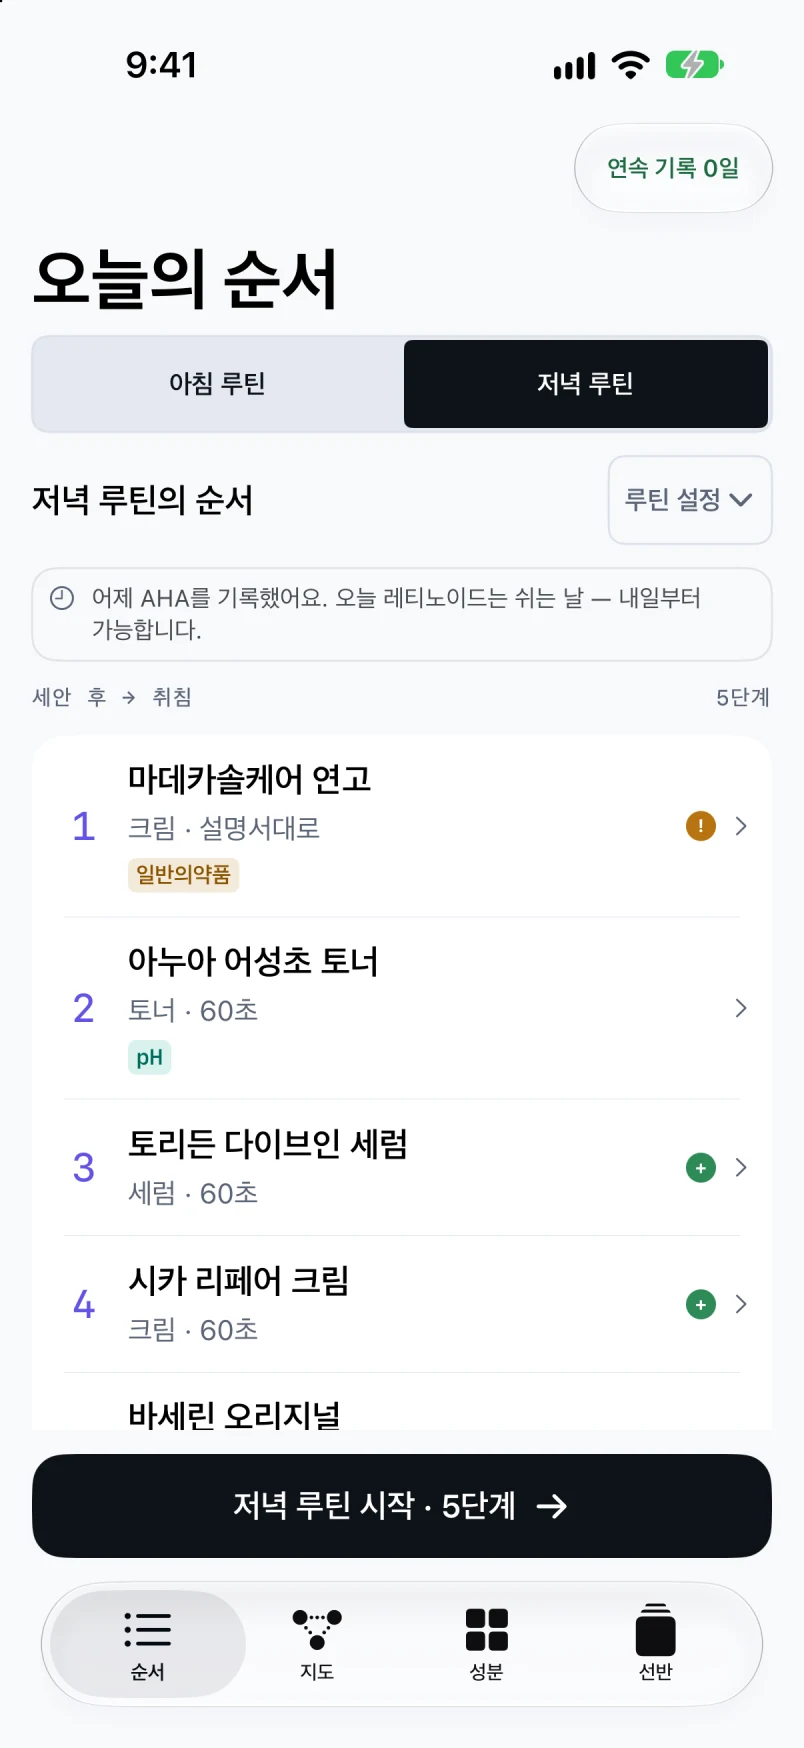
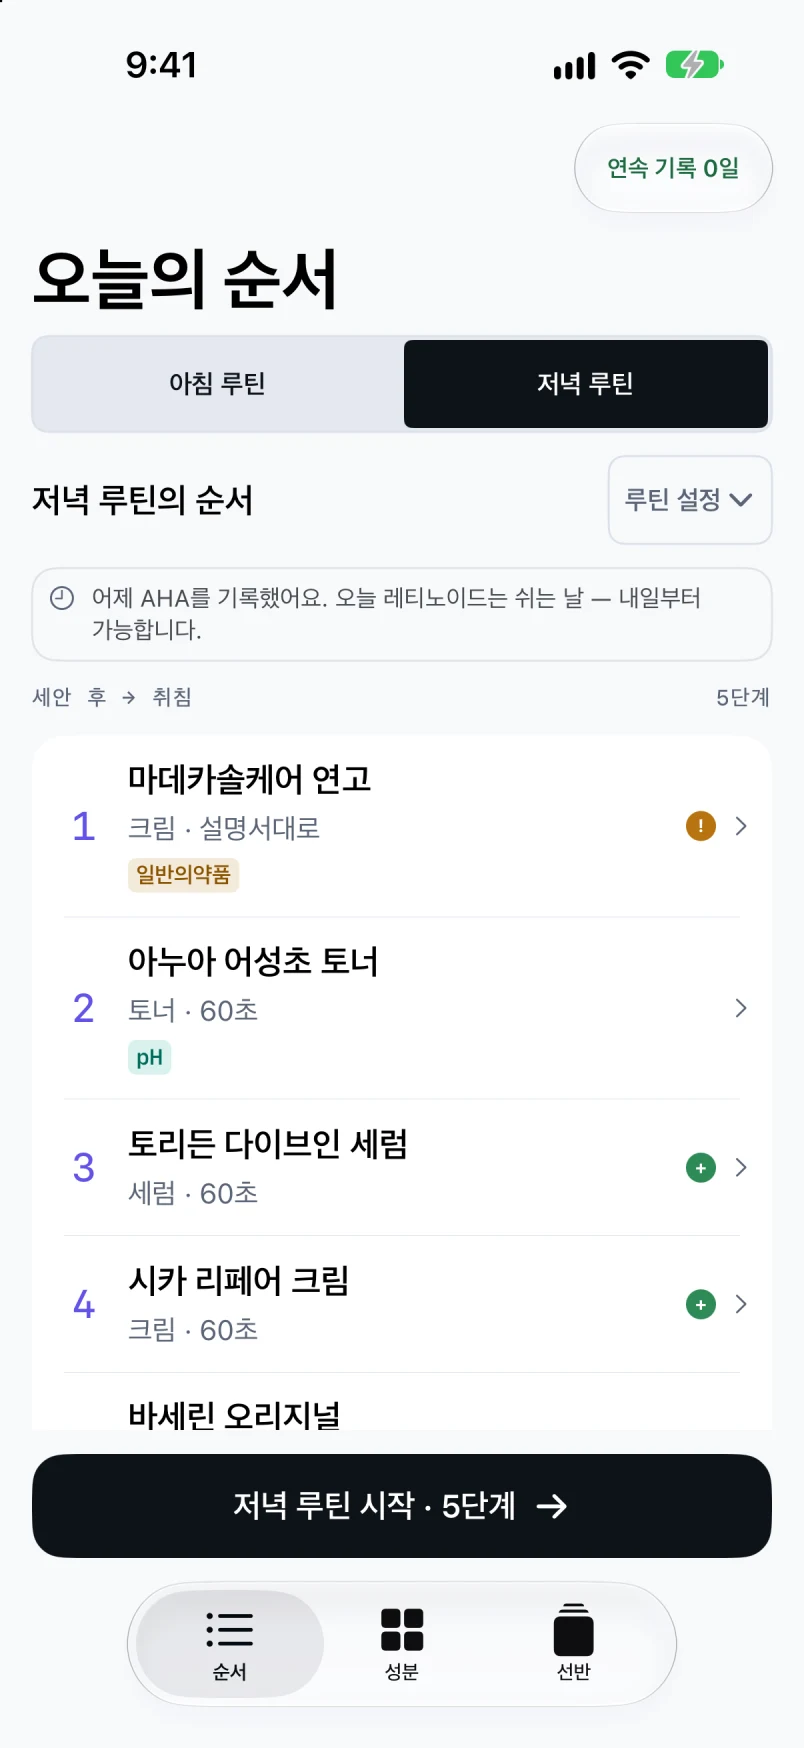
성분 관계 그래프 소개를 종료하고 현재 앱 화면을 반영합니다 (#3)

diff --git a/_layouts/landing.html b/_layouts/landing.html
@@ -16,7 +16,7 @@
   <a class="skip-link" href="#main">본문으로 건너뛰기</a>
   <header class="site-header">
     <a class="brand" href="{{ '/' | relative_url }}" aria-label="바름 홈"><img src="{{ '/assets/images/app-icon.webp' | relative_url }}" width="34" height="34" alt=""><span>바름</span></a>
-    <nav aria-label="주요 기능"><a href="#routine">순서</a><a href="#relations">성분 시각화</a><a href="#everywhere">어디서나</a></nav>
+    <nav aria-label="주요 기능"><a href="#routine">순서</a><a href="#ingredients">성분 시각화</a><a href="#everywhere">어디서나</a></nav>
     {% if site.app_store_url and site.app_store_url != '' %}<a class="header-link" href="{{ site.app_store_url | escape }}">다운로드 <span aria-hidden="true">↗</span></a>{% else %}<span class="header-status">iOS · watchOS</span>{% endif %}
   </header>
   <main id="main">
@@ -24,15 +24,15 @@
       <div class="hero-copy">
         <p class="eyebrow">매일 바르는 일에, 바름.</p>
         <h1 id="hero-title">가진 화장품,<br>바르는 <span>순서부터.</span></h1>
-        <p class="hero-description">순서부터 성분의 관계와 이동까지.<br>iPhone과 Apple Watch로 이어가는 나의 루틴.</p>
+        <p class="hero-description">순서부터 내 선반의 성분 구성까지.<br>iPhone과 Apple Watch로 이어가는 나의 루틴.</p>
         <div class="hero-actions">
           {% if site.app_store_url and site.app_store_url != '' %}<a class="button primary" href="{{ site.app_store_url | escape }}">App Store에서 다운로드 <span aria-hidden="true">↗</span></a>{% else %}<span class="launch-status">App Store 출시 예정</span>{% endif %}
           <a class="text-link" href="#routine">바름 알아보기 <span aria-hidden="true">↗</span></a>
         </div>
       </div>
-      <div class="hero-stage" role="group" aria-label="바름의 오늘 순서, 성분 관계 그래프와 Apple Watch 앱">
+      <div class="hero-stage" role="group" aria-label="바름의 오늘 순서, 내 선반과 Apple Watch 앱">
         <div class="orbit orbit-one" aria-hidden="true"></div><div class="orbit orbit-two" aria-hidden="true"></div>
-        <figure class="phone hero-phone-back"><img src="{{ '/assets/images/graph.webp' | relative_url }}" width="804" height="1748" alt="성분의 관계와 연구 참고 연결을 보여주는 그래프" decoding="async"></figure>
+        <figure class="phone hero-phone-back"><img src="{{ '/assets/images/shelf.webp' | relative_url }}" width="804" height="1748" alt="가진 화장품을 모아둔 바름의 내 선반" decoding="async"></figure>
         <figure class="phone hero-phone-front"><img src="{{ '/assets/images/order.webp' | relative_url }}" width="804" height="1748" alt="오늘의 저녁 루틴과 바르는 순서를 보여주는 바름 앱" fetchpriority="high"></figure>
         <figure class="hero-watch watch-device"><img src="{{ '/assets/images/watch-home.webp' | relative_url }}" width="324" height="394" alt="Apple Watch 바름 앱에서 오늘의 루틴을 확인하는 화면" decoding="async"></figure>
       </div>
@@ -42,7 +42,6 @@
       <p>화장대 앞의 작은 고민이<br><span>나를 돌보는 시간으로.</span></p>
       <nav class="feature-directory" aria-label="바름의 기능 전체 보기">
         <a href="#routine">바르는 순서 <span aria-hidden="true">↗</span></a>
-        <a href="#relations">성분 관계 그래프 <span aria-hidden="true">↗</span></a>
         <a href="#ingredients">성분 구성 트리맵 <span aria-hidden="true">↗</span></a>
         <a href="#absorption">성분 이동 모식도 <span aria-hidden="true">↗</span></a>
         <a href="#widgets">홈·잠금 화면 위젯 <span aria-hidden="true">↗</span></a>
@@ -63,26 +62,12 @@
       <div class="routine-notes"><p><strong>한곳에 모은 내 선반</strong>사용 중인 제품을 담고 살펴보세요.</p><p><strong>아침과 저녁의 루틴</strong>시간대에 맞춰 오늘의 순서를 확인하세요.</p><p><strong>순서와 함께 보는 안내</strong>대기시간과 함께 사용할 때의 주의사항도 확인하세요.</p></div>
     </section>
 
-    <section class="graph-section" id="relations" aria-labelledby="graph-title">
-      <div class="wrap graph-layout">
-        <div class="graph-copy reveal"><p class="section-label">성분 관계 그래프</p><h2 id="graph-title">성분을 잇고,<br><span>이유를 읽어요.</span></h2><p>길게 나열된 성분표에서 한 걸음 더.<br>성분 하나를 선택해 연결된 관계와<br>그 설명의 근거를 살펴보세요.</p>
-          <div class="graph-controls" role="group" aria-label="성분 그래프 화면 예시 선택"><button type="button" data-graph="overview" aria-pressed="true" aria-controls="graph-image">전체 관계</button><button type="button" data-graph="selected" aria-pressed="false" aria-controls="graph-image">성분 선택</button></div>
-          <p class="graph-description" id="graph-description" aria-live="polite">성분 사이의 관계와 연구 참고 연결을 한눈에 살펴봐요.</p>
-          <p class="graph-note">연구에 함께 등장했다는 사실이 효과나 안전성을 보장하지는 않아요. 앱에서 관계 설명과 출처를 함께 확인하세요.</p>
-        </div>
-        <div class="graph-stage reveal">
-          <div class="graph-rings" aria-hidden="true"><i></i><i></i><i></i></div>
-          <figure class="graph-phone phone"><img id="graph-image" src="{{ '/assets/images/graph.webp' | relative_url }}" data-overview="{{ '/assets/images/graph.webp' | relative_url }}" data-selected="{{ '/assets/images/graph-selected.webp' | relative_url }}" width="804" height="1748" alt="성분 관계와 연구 참고 연결을 함께 표시하는 그래프 예시" loading="lazy" decoding="async"></figure>
-        </div>
-      </div>
-    </section>
-
     <section class="ingredients-section wrap section-space" id="ingredients" aria-labelledby="ingredients-title">
       <div class="ingredients-copy reveal">
         <p class="section-label">성분 구성 트리맵</p>
         <h2 id="ingredients-title">내 선반을,<br>성분으로 펼쳐보면.</h2>
         <p class="section-description">여러 제품에 나뉘어 있던 성분을 한곳에.<br>공식 용도와 검증된 효능, 두 가지 기준으로<br>내 선반의 성분 구성을 살펴보세요.</p>
-        <dl class="feature-explanations"><div><dt>공식 용도</dt><dd>공식 자료에 기록된 성분의 용도별로 확인해요.</dd></div><div><dt>검증된 효능</dt><dd>근거가 연결된 성분을 효능별로 살펴봐요.</dd></div><div><dt>구성에서 상세까지</dt><dd>영역을 선택하면 해당 성분 목록과 상세로 이어져요.</dd></div></dl>
+        <dl class="feature-explanations"><div><dt>공식 용도</dt><dd>공식 자료에 기록된 성분의 용도별로 확인해요.</dd></div><div><dt>검증된 효능</dt><dd>근거가 연결된 성분을 효능별로 살펴봐요.</dd></div><div><dt>구성에서 상세까지</dt><dd>영역을 선택하면 성분 목록과 상세로 이어져요. 성분의 설명과 관련 연구 근거도 함께 확인하세요.</dd></div></dl>
         <p class="visual-note">트리맵의 넓이는 분류별 고유 성분 수입니다. 함량이나 효과의 강도를 뜻하지 않습니다.</p>
       </div>
       <div class="ingredients-stage reveal"><figure class="ingredients-screen"><img src="{{ '/assets/images/treemap.webp' | relative_url }}" width="804" height="1748" alt="검증된 효능별 성분 수를 영역 크기로 보여주는 실제 앱 트리맵 데모 화면" loading="lazy" decoding="async"></figure></div>

diff --git a/assets/css/landing.css b/assets/css/landing.css
@@ -430,121 +430,6 @@ h2 {
   font-weight: 650;
   margin-bottom: 9px;
 }
-.graph-section {
-  background: #111b1e;
-  color: #f5f8f7;
-  overflow: hidden;
-}
-.graph-layout {
-  display: grid;
-  grid-template-columns: 1fr 1fr;
-  gap: 60px;
-  align-items: center;
-  min-height: 830px;
-}
-.graph-copy {
-  padding: 70px 0;
-  position: relative;
-  z-index: 1;
-}
-.graph-copy .section-label {
-  color: #a8c8b8;
-}
-.graph-copy h2 {
-  font-size: clamp(40px, 4.4vw, 62px);
-}
-.graph-copy h2 span {
-  color: #b1d5c2;
-}
-.graph-copy > p:not(.section-label) {
-  font-size: 17px;
-  line-height: 1.9;
-  color: #c0cdca;
-  margin-top: 26px;
-}
-.graph-controls {
-  display: flex;
-  gap: 8px;
-  margin-top: 34px;
-}
-.graph-controls button {
-  padding: 12px 20px;
-  min-height: 46px;
-  color: #e3ece7;
-  background: transparent;
-  border: 1px solid #566863;
-  border-radius: 30px;
-  font-size: 13px;
-}
-.graph-controls button[aria-pressed="true"] {
-  background: #cbe7d8;
-  border-color: #cbe7d8;
-  color: #16241e;
-  font-weight: 650;
-}
-.graph-controls button:hover {
-  border-color: #d9eade;
-}
-.graph-copy p.graph-description {
-  font-size: 13px;
-  max-width: 320px;
-  min-height: 50px;
-  margin-top: 18px;
-}
-.graph-copy p.graph-note {
-  font-size: 12px;
-  line-height: 1.75;
-  color: #a5b5b1;
-  border-top: 1px solid #3b4d47;
-  padding-top: 20px;
-  margin-top: 30px;
-  max-width: 355px;
-}
-.graph-stage {
-  position: relative;
-  min-height: 780px;
-  perspective: 1800px;
-  display: flex;
-  align-items: center;
-  justify-content: center;
-}
-.graph-phone {
-  width: 300px;
-  position: relative;
-  transform: rotate(6deg) rotateY(-12deg);
-  border-color: #2e3e38;
-  box-shadow:
-    0 0 0 1px #6a7c75,
-    8px 10px 0 -4px #596961,
-    0 30px 100px -25px #000;
-  transition: transform 0.7s var(--ease);
-}
-.graph-phone:hover {
-  transform: rotate(0) rotateY(0);
-}
-.graph-rings {
-  position: absolute;
-  inset: 0;
-  pointer-events: none;
-}
-.graph-rings i {
-  border: 1px solid #7c9a8829;
-  border-radius: 50%;
-  position: absolute;
-  left: 50%;
-  top: 50%;
-  width: 450px;
-  height: 450px;
-  transform: translate(-50%, -50%);
-}
-.graph-rings i:nth-child(2) {
-  width: 650px;
-  height: 650px;
-}
-.graph-rings i:nth-child(3) {
-  width: 850px;
-  height: 850px;
-}
 .centered {
   text-align: center;
 }
@@ -770,12 +655,6 @@ h2 {
     opacity 0.85s var(--ease),
     transform 1s var(--ease);
 }
-.graph-controls {
-  display: none;
-}
-.graph-ready .graph-controls {
-  display: flex;
-}
 @keyframes phone-front {
   from {
     opacity: 0;
@@ -876,16 +755,6 @@ h2 {
   .shelf-frame,
   .routine-frame {
     width: 240px;
-  }
-  .graph-layout {
-    gap: 25px;
-    min-height: 790px;
-  }
-  .graph-phone {
-    width: 278px;
-  }
-  .graph-stage {
-    min-height: 720px;
   }
   .widget-small,
   .widget-medium {
@@ -1081,62 +950,6 @@ h2 {
     font-size: 16px;
     margin-bottom: 5px;
   }
-  .graph-layout {
-    display: flex;
-    flex-direction: column;
-    gap: 0;
-    min-height: 0;
-  }
-  .graph-copy {
-    width: 100%;
-    padding: 70px 0 10px;
-  }
-  .graph-copy h2 {
-    font-size: 42px;
-  }
-  .graph-copy > p:not(.section-label) {
-    font-size: 15px;
-    margin-top: 22px;
-  }
-  .graph-copy p.graph-description {
-    font-size: 13px;
-    min-height: 0;
-    max-width: none;
-  }
-  .graph-copy p.graph-note {
-    font-size: 11px;
-    max-width: none;
-    margin-top: 22px;
-    padding-top: 18px;
-  }
-  .graph-controls {
-    margin-top: 25px;
-  }
-  .graph-controls button {
-    font-size: 12px;
-    padding: 11px 18px;
-  }
-  .graph-stage {
-    width: 100%;
-    min-height: 650px;
-  }
-  .graph-phone {
-    width: 263px;
-    border-radius: 34px;
-    border-width: 5px;
-  }
-  .graph-rings i {
-    width: 380px;
-    height: 380px;
-  }
-  .graph-rings i:nth-child(2) {
-    width: 510px;
-    height: 510px;
-  }
-  .graph-rings i:nth-child(3) {
-    width: 640px;
-    height: 640px;
-  }
   .widget-section .section-heading {
     text-align: left;
   }
@@ -1281,9 +1094,6 @@ h2 {
   .widget-stage-word {
     font-size: 68px;
   }
-  .graph-copy h2 {
-    font-size: 38px;
-  }
   .site-header nav {
     gap: 16px;
   }
@@ -1307,9 +1117,6 @@ h2 {
   }
   .widget-stage:hover .widget-medium {
     transform: rotate(7deg) rotateY(-5deg);
-  }
-  .graph-phone:hover {
-    transform: rotate(6deg) rotateY(-12deg);
   }
 }
 

diff --git a/assets/js/landing.js b/assets/js/landing.js
@@ -34,37 +34,4 @@
   document.addEventListener("focusin", (event) =>
     event.target.closest(".reveal")?.classList.remove("pending"),
   );
-  const image = document.getElementById("graph-image");
-  const description = document.getElementById("graph-description");
-  const controls = Array.from(document.querySelectorAll("[data-graph]"));
-  if (!image || !description || !controls.length) return;
-  document.documentElement.classList.add("graph-ready");
-  let revision = 0;
-  controls.forEach((button) => {
-    button.addEventListener("click", async () => {
-      const current = ++revision;
-      const selected = button.dataset.graph === "selected";
-      const source = selected ? image.dataset.selected : image.dataset.overview;
-      const preload = new Image();
-      preload.src = source;
-      try {
-        await preload.decode();
-        if (current !== revision) return;
-        image.src = source;
-        image.alt = selected
-          ? "나이아신아마이드를 선택해 연결된 관계를 강조한 앱 그래프 예시"
-          : "성분 관계와 연구 참고 연결을 함께 표시하는 그래프 예시";
-        controls.forEach((control) =>
-          control.setAttribute("aria-pressed", String(control === button)),
-        );
-        description.textContent = selected
-          ? "성분을 선택하면 연결된 관계에 집중해서 살펴볼 수 있어요."
-          : "성분 사이의 관계와 연구 참고 연결을 한눈에 살펴봐요.";
-      } catch {
-        if (current === revision)
-          description.textContent =
-            "화면 예시를 불러오지 못했어요. 다시 선택해 주세요.";
-      }
-    });
-  });
 })();

diff --git a/docs/landing-assets.md b/docs/landing-assets.md
@@ -1,7 +1,7 @@
 # 앱 소개 화면 자료
 
 - 캡처일: 2026-09-28.
-- `order.webp`, `graph.webp`, `graph-selected.webp`, `history.webp`, `shelf.webp`: 설치된 Bareum Debug 앱을 별도 iPhone 18 Pro / iOS 27 시뮬레이터에서 실행해 캡처. 각각 `--design-preview=tabs`, `references`, `references-filtered`, `history`, `shelf`를 사용했다. 데모 데이터이며 운영 사용자 자료가 아니다. WebP 변환 외에 앱 내용은 수정하지 않았다.
+- `order.webp`, `history.webp`, `shelf.webp`: 설치된 Bareum Debug 앱을 별도 `Bareum Website Capture` iPhone 18 Pro / iOS 27 시뮬레이터에서 실행해 캡처. 각각 `--design-preview=tabs`, `history`, `shelf`를 사용했다. 데모 데이터이며 운영 사용자 자료가 아니다. 804×1748 크기 축소와 WebP 변환 외에 앱 내용은 수정하지 않았다.
 - `widget-medium.webp`, `widget-small.webp`: 앱 저장소 `docs/design/screens.html`의 Pen 내보내기에서 `JEWV9`, `swepB` 요소를 브라우저로 캡처했다. 원본 문서는 변경하지 않았다. 실제 위젯 캡처가 아니라 디자인 예시임을 페이지에 명시했다.
 - 위젯 기능 설명 대조: `BareumWidget/NextStepWidget.swift`, `NextStepHomeViews.swift`, `StreakWidget.swift`. 루틴을 앱에서 준비한 뒤 사용하며, 크기와 상태에 따라 표시·조작이 다르다.
 - `app-icon.webp`: 앱의 `Assets.xcassets/AppIcon.appiconset/AppIcon.png` 축소본.
@@ -12,8 +12,12 @@
 
 ## 확장 기능 화면
 
[2 lines of base64/hex data omitted]
 - `absorption.webp`: 별도 iPhone 시뮬레이터의 `--design-preview=depth` 화면. 분자량·용해도 기반 모식도이며 실제 흡수량 측정이 아니다.
 - `watch-home.webp`, `watch-routine.webp`: 별도 Apple Watch SE 3 40mm 시뮬레이터에서 설치된 Watch 앱을 `--watch-preview`, `--watch-preview --watch-preview-routine`으로 실행한 데모 화면.
 - `island-compact.webp`, `island-expanded.webp`, `live-activity.webp`: 앱 저장소 `docs/design/screens.html`의 다이나믹 아일랜드·잠금 화면 실시간 현황 디자인 내보내기를 캡처. 실제 시스템 실행 캡처가 아니며 사이트에도 디자인 예시라고 명시했다.
 - 기능 설명 대조: `ShelfIngredientsView.swift`, `AbsorptionView.swift`, `BareumWidget/RoutineLiveActivity.swift`, `BareumWatch/WatchViews.swift`, `WatchAppModel.swift`. Watch에서는 iPhone의 계정·오늘의 순서 준비가 필요하며, 다이나믹 아일랜드는 지원 기기에서 사용한다.
+
+## 독립 관계 그래프 종료 반영
+
+독립 관계 그래프 소개와 `graph.webp`, `graph-selected.webp` 자료는 제거했다. 첫 화면의 보조 iPhone은 내 선반을 표시한다. 현재 앱의 순서·성분·선반 3개 탭과 일치하도록 순서·트리맵 화면을 갱신했다. 선반·기록·이동 모식도도 같은 Debug 빌드로 다시 캡처했다. 공유 이미지 `social.png`는 새 화면 자료가 적용된 웹 첫 화면 캡처다. 관련 연구·근거는 성분 상세 맥락에서 설명한다.

diff --git a/docs/releases/2026-09-28-ingredient-navigation-refresh.md b/docs/releases/2026-09-28-ingredient-navigation-refresh.md
@@ -1,0 +1,22 @@
+# 성분 탐색 변경에 맞춘 소개 사이트 갱신 — 2026-09-28
+
+독립 성분 관계 그래프 종료에 맞춰 소개 홈의 그래프 섹션·기능 링크·전환 버튼·전용 스타일과 두 그래프 이미지를 제거했다. 첫 화면은 오늘의 순서·내 선반·Apple Watch를 보여준다. 성분 트리맵·피부층 모식도와 위젯·실시간 현황·Watch·기록 소개는 유지하며, 성분 상세의 관련 연구 근거 확인을 설명한다.
+
+순서·선반·기록·이동 모식도는 현재 Debug 앱으로 다시 캡처했다. 트리맵은 최종 iOS UI 검증 첨부 자료를 사용하며 순서·성분·선반 3개 탭을 확인했다. 공유 이미지는 갱신한 웹 첫 화면의 1200×630 캡처다. 출처는 [화면 자료](../landing-assets.md)에 기록했다.
+
+## 로컬 검증
+
+- Jekyll 빌드, Wrangler dry-run, JavaScript 구문 검사, `git diff --check` 통과.
+- 실제 브라우저 360·390·768·1440px에서 가로 넘침·끊어진 기능 앵커 없음.
+- 페이지의 모든 이미지 로딩 확인, 그래프 이미지 참조 없음.
+- axe-core 4.12.1 WCAG A/AA 검사: 1440px에서 위반 0·미완료 0, 390px 성분 앵커 위치에서 위반 0·대비 수동 확인 항목 1(`.stage-caption`, 기존 순서 영역 캡션).
+- 개인정보처리방침·약관·고객지원 본문은 변경하지 않았다.
+
+## 운영 배포
+
+- 2026-09-28 18:36 KST, `bareum-legal` Worker에 Cloudflare MCP 정적 자산 직접 업로드.
+- 버전 `1f7dddf8-bd51-4b43-be90-fe642873b2a2` 100%, 배포 `e855445b-9811-4b50-838c-fa2fd36997ff`.
+- 이전 버전 `45f14b27-71b1-442f-b815-3ea62c5fb936`.
+- 45개 파일의 manifest를 등록하고 변경 자산 22개 업로드. 비밀 업로드 토큰은 사용 후 삭제했다.
+- 운영 홈·지원·약관·개인정보 및 자산 44개 응답이 최종 빌드 파일과 바이트 단위 일치했다.
+- 소스는 현재 작업 트리이며 커밋·머지는 별도다.

diff --git a/index.md b/index.md
@@ -1,6 +1,6 @@
 ---
 layout: landing
 title: 바름 — 가진 화장품, 바르는 순서부터
-description: 가진 화장품의 순서, 성분 관계 그래프와 트리맵, 피부 층별 성분 이동 모식도. 위젯·실시간 현황·다이나믹 아일랜드·Apple Watch로 매일의 루틴을 이어가세요. App Store 출시 예정.
+description: 가진 화장품의 순서, 성분 구성 트리맵, 피부 층별 성분 이동 모식도. 위젯·실시간 현황·다이나믹 아일랜드·Apple Watch로 매일의 루틴을 이어가세요. App Store 출시 예정.
 image: /assets/images/social.png
 ---
